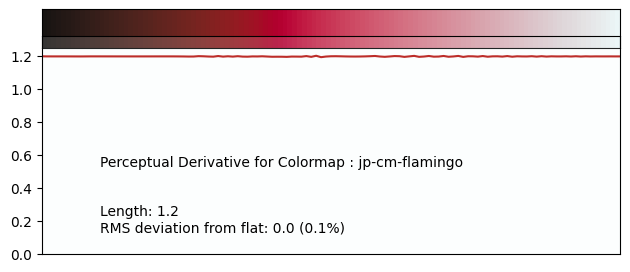
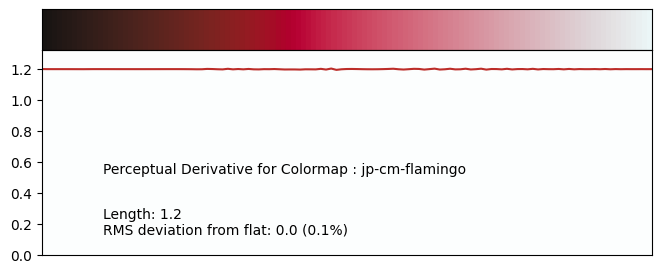
update readme

diff --git a/gen/gen.py b/gen/gen.py
@@ -109,7 +109,7 @@ def calculatePD(gradient, RGB, name):
     ax.get_xaxis().set_visible(False)
     ax.margins(0.0)
     ax.set_facecolor(aijiro_alph)
-    fig.tight_layout()
+    # fig.tight_layout()
     return fig
 
 def gen_cmaps(cmaps,segmented=False):
